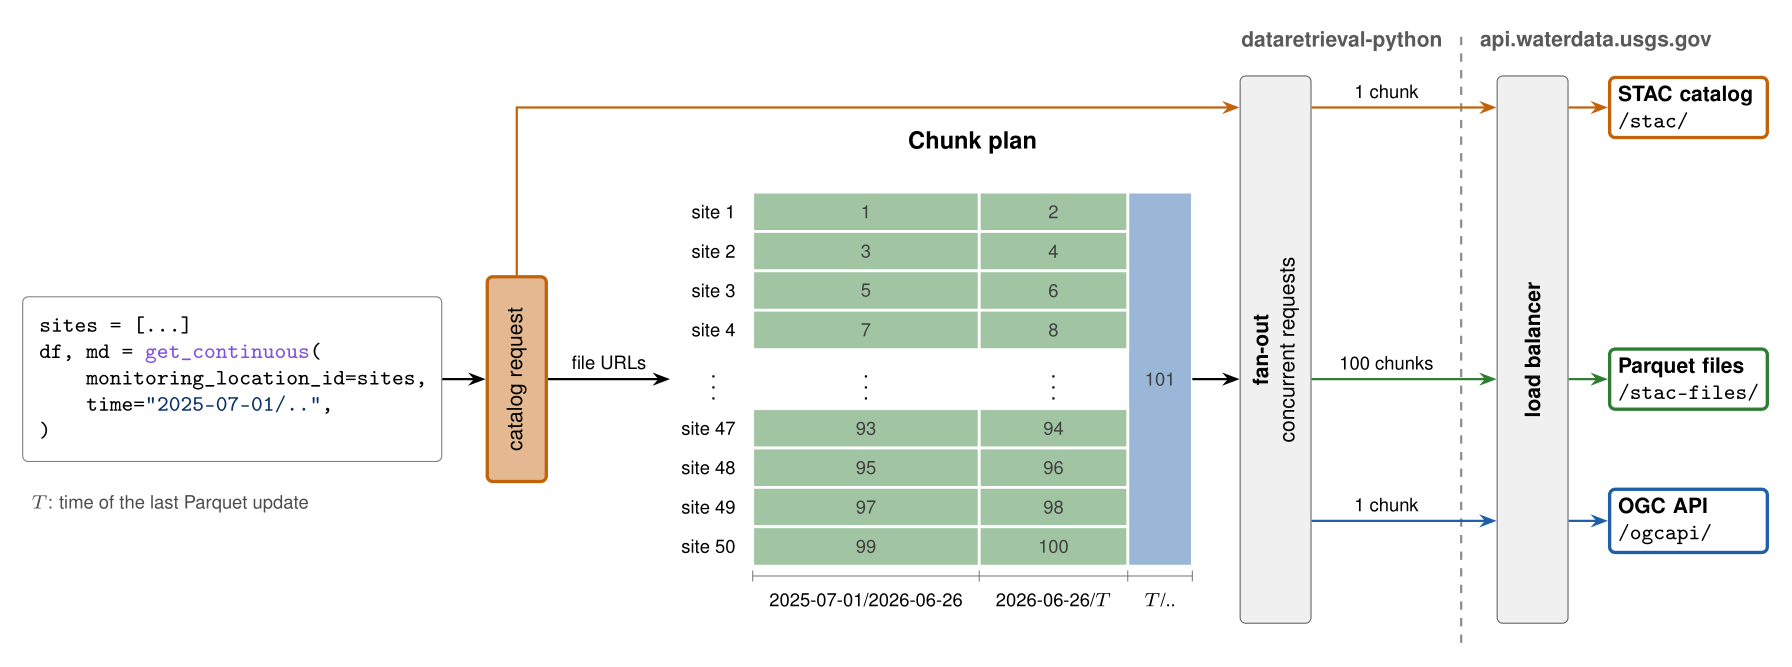
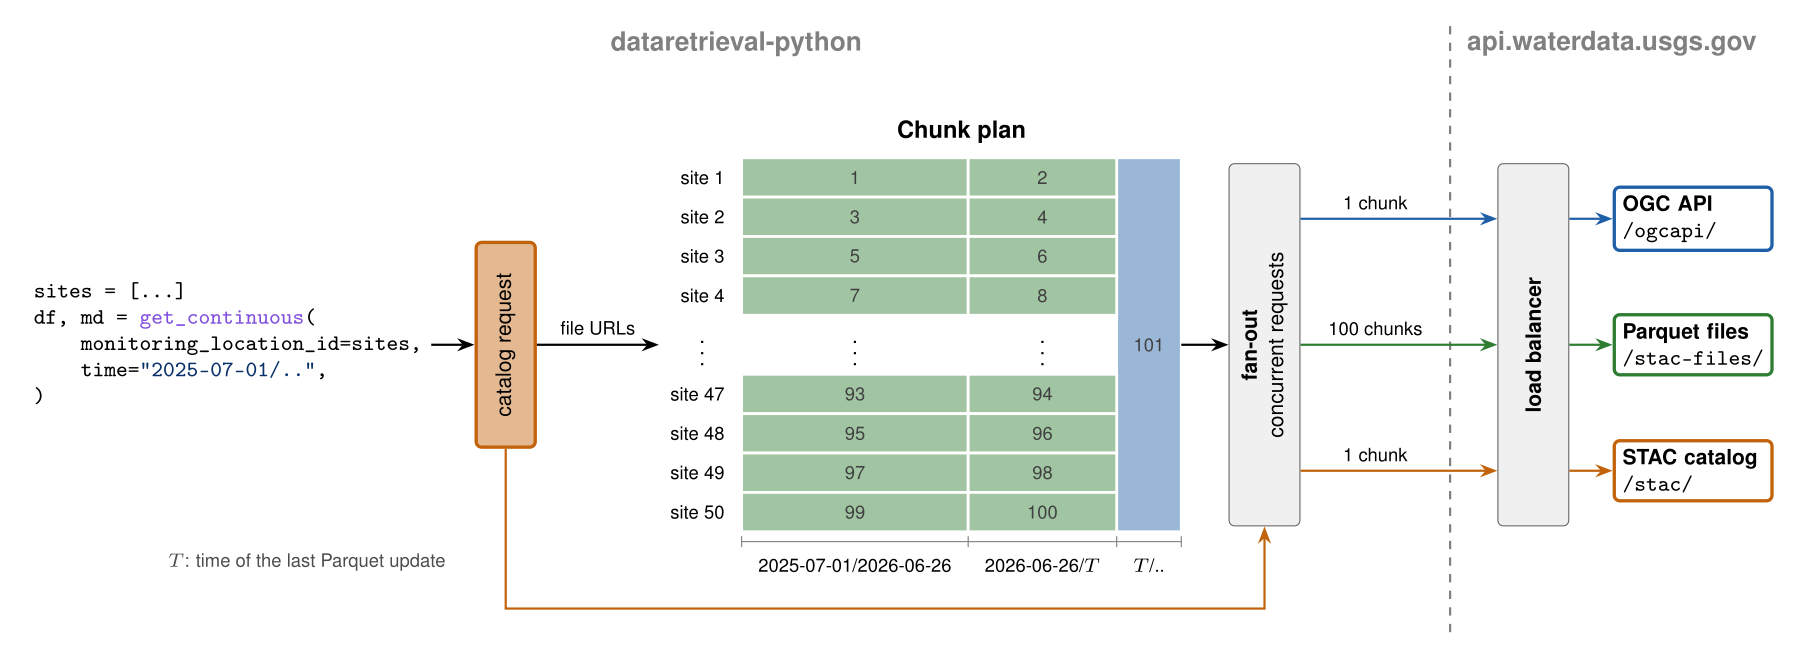
docs(adr): lay out the ADR 0014 figure around one main flow
The catalog request now passes under the chunk plan and enters the fan-out
from below, so the STAC catalog lane is the bottom one. The endpoints are
evenly spaced, the fan-out and the load balancer are only as tall as they
need to be, and the two side labels are centered over their sides of the
boundary.

diff --git a/docs/source/architecture/decisions/0014-cloud-optimized-architecture.tex b/docs/source/architecture/decisions/0014-cloud-optimized-architecture.tex
@@ -18,10 +18,11 @@
 \usepackage{listings}
 \usetikzlibrary{arrows.meta}
 
-% one color per endpoint
+% one color per endpoint, and one for the boundary
 \definecolor{cat}{HTML}{C2620A}   % STAC catalog
 \definecolor{fil}{HTML}{2E7D32}   % Parquet files
 \definecolor{api}{HTML}{1F5FA8}   % OGC API
+\colorlet{boundary}{black!50}
 
 % Python highlighting
 \definecolor{pykeyword}{HTML}{CF222E}
@@ -69,21 +70,20 @@ df, md = get_continuous(
   send/.style={->, thick, draw=#1},
   count/.style={above, font=\sffamily\scriptsize},
   stage/.style={draw=black!60, fill=black!6, rounded corners=2pt,
-    minimum width=0.9cm, minimum height=6.95cm, anchor=west},
+    minimum width=0.9cm, minimum height=4.6cm, anchor=west},
   endpoint/.style={draw=#1, very thick, rounded corners=2pt, align=left,
     fill=white, inner sep=3pt, text width=\boxwidth, anchor=west},
-  region/.style={font=\sffamily\footnotesize\bfseries, text=black!65},
+  region/.style={anchor=south, font=\sffamily\normalsize\bfseries,
+    text=boundary},
 ]
 
-% The main flow runs along y = 2.4, through the gap in the chunk plan. The
-% fan-out and the load balancer span y = -0.7 to 6.25; every stage fits
-% within that height.
+% The main flow runs along y = 2.4, through the gap in the chunk plan and
+% the middle of the fan-out and the load balancer. The three lanes to the
+% endpoints are 1.6 apart.
+\def\lanes{api/4.0, fil/2.4, cat/0.8}
 
 % ---------------------------------------------------------------- the query
-\node[draw=black!50, rounded corners=2pt, inner sep=6pt, anchor=west]
-  (query) at (0, 2.4) {\usebox{\querycode}};
-\node[axislabel, anchor=north west, text=black!70]
-  at ([yshift=-0.3cm]query.south west) {$T$: time of the last Parquet update};
+\node[inner sep=4pt, anchor=west] (query) at (0, 2.4) {\usebox{\querycode}};
 
 % ------------------------------------------------------- the catalog request
 \node[draw=cat, very thick, fill=cat!45, rounded corners=2pt,
@@ -91,6 +91,8 @@ df, md = get_continuous(
   at ([xshift=0.55cm]query.east) {};
 \node[rotate=90] at (catalog.center) {catalog request};
 \draw[flow] (query.east) -- (catalog.west);
+\node[axislabel, anchor=base east, text=black!70]
+  at ([xshift=-0.25cm]catalog.west |- 0, -0.42) {$T$: time of the last Parquet update};
 
 % ------------------------------------------------------------ the chunk plan
 % Rows: one site each, 0.5 high; sites 1 to 4, a gap, sites 47 to 50.
@@ -103,18 +105,17 @@ df, md = get_continuous(
 \node[column] (c3) at (c2.north east) {$T$/..};
 
 \path (c1.west) -- (c3.east) coordinate[midway] (grid middle);
-\node[anchor=south, font=\sffamily\small\bfseries] at (grid middle |- 0, 5.15)
+\node[anchor=south, font=\sffamily\small\bfseries] at (grid middle |- 0, 4.85)
   {Chunk plan};
 
 \fill[chunk=api] (c3.west |- 0, 0.025) rectangle (c3.east |- 0, 4.775);
 \node[number] at (c3 |- 0, 2.4) {101};
-\foreach \site/\row/\top in
-    {1/1/4.775, 2/2/4.275, 3/3/3.775, 4/4/3.275,
-     47/47/2.025, 48/48/1.525, 49/49/1.025, 50/50/0.525} {
+\foreach \site/\top in {1/4.775, 2/4.275, 3/3.775, 4/3.275,
+                        47/2.025, 48/1.525, 49/1.025, 50/0.525} {
   \fill[chunk=fil] (c1.west |- 0, \top-0.5) rectangle (c1.east |- 0, \top);
   \fill[chunk=fil] (c2.west |- 0, \top-0.5) rectangle (c2.east |- 0, \top);
-  \node[number] at (c1 |- 0, \top-0.25) {\the\numexpr 2*\row-1\relax};
-  \node[number] at (c2 |- 0, \top-0.25) {\the\numexpr 2*\row\relax};
+  \node[number] at (c1 |- 0, \top-0.25) {\the\numexpr 2*\site-1\relax};
+  \node[number] at (c2 |- 0, \top-0.25) {\the\numexpr 2*\site\relax};
   \node[axislabel, anchor=east] at ([xshift=-0.1cm]c1.west |- 0, \top-0.25)
     {site \site};
 }
@@ -129,38 +130,40 @@ df, md = get_continuous(
 
 % ------------------------------------------------------------- the fan-out
 % The catalog request, the file chunks, and the change chunk all run on it.
-\node[stage] (fanout) at ([xshift=0.6cm]c3.east |- 0, 2.775) {};
+% The catalog request passes under the plan and enters from below.
+\node[stage] (fanout) at ([xshift=0.6cm]c3.east |- 0, 2.4) {};
 \node[align=center, rotate=90] at (fanout.center)
   {\textbf{fan-out}\\concurrent requests};
-\draw[send=cat] (catalog.north) |- (fanout.west |- 0, 5.85);
 \draw[flow] (c3.east |- 0, 2.4) -- (fanout.west |- 0, 2.4);
+\draw[send=cat] (catalog.south) -- (catalog.south |- 0, -0.95) -| (fanout.south);
 
 % --------------------------------------- the boundary and the load balancer
 \coordinate (boundary) at ([xshift=1.9cm]fanout.east);
-\draw[black!45, dashed, thick] (boundary |- 0, -0.95) -- (boundary |- 0, 6.85);
-\node[region, anchor=south east] at ([xshift=-0.12cm]boundary |- 0, 6.45)
-  {dataretrieval-python};
-\node[region, anchor=south west] at ([xshift=0.12cm]boundary |- 0, 6.45)
-  {api.waterdata.usgs.gov};
-
-\node[stage] (lb) at ([xshift=0.45cm]boundary |- 0, 2.775) {};
+\draw[boundary, dashed, thick] (boundary |- 0, -1.25) -- (boundary |- 0, 6.45);
+\node[stage] (lb) at ([xshift=0.6cm]boundary |- 0, 2.4) {};
 \node[rotate=90, font=\sffamily\footnotesize\bfseries] at (lb.center)
   {load balancer};
 
-\foreach \lane/\y/\label in {cat/5.85/1 chunk, fil/2.4/100 chunks, api/0.6/1 chunk} {
+\foreach \lane/\y in \lanes
   \draw[send=\lane] (fanout.east |- 0, \y) -- (lb.west |- 0, \y);
+\foreach \y/\label in {4.0/1 chunk, 2.4/100 chunks, 0.8/1 chunk}
   \node[count] at ([xshift=0.95cm]fanout.east |- 0, \y) {\label};
-}
 
 % ---------------------------------------------------------------- endpoints
-\node[endpoint=cat] (stac)  at ([xshift=0.5cm]lb.east |- 0, 5.85)
-  {\textbf{STAC catalog}\\\texttt{/stac/}};
-\node[endpoint=fil] (files) at ([xshift=0.5cm]lb.east |- 0, 2.4)
-  {\textbf{Parquet files}\\\texttt{/stac-files/}};
-\node[endpoint=api] (ogc)   at ([xshift=0.5cm]lb.east |- 0, 0.6)
+\node[endpoint=api] (ogc)   at ([xshift=0.55cm]lb.east |- 0, 4.0)
   {\textbf{OGC API}\\\texttt{/ogcapi/}};
-\foreach \lane/\y in {cat/5.85, fil/2.4, api/0.6}
-  \draw[send=\lane] (lb.east |- 0, \y) -- ([xshift=0.5cm]lb.east |- 0, \y);
+\node[endpoint=fil] (files) at ([xshift=0.55cm]lb.east |- 0, 2.4)
+  {\textbf{Parquet files}\\\texttt{/stac-files/}};
+\node[endpoint=cat] (stac)  at ([xshift=0.55cm]lb.east |- 0, 0.8)
+  {\textbf{STAC catalog}\\\texttt{/stac/}};
+\foreach \lane/\y in \lanes
+  \draw[send=\lane] (lb.east |- 0, \y) -- ([xshift=0.55cm]lb.east |- 0, \y);
+
+% ----------------------------------------------------------- the two sides
+\path (query.west |- 0, 5.95) -- (boundary |- 0, 5.95)
+  node[region, midway] {dataretrieval-python};
+\path (boundary |- 0, 5.95) -- (files.east |- 0, 5.95)
+  node[region, midway] {api.waterdata.usgs.gov};
 
 \end{tikzpicture}
 \end{document}
